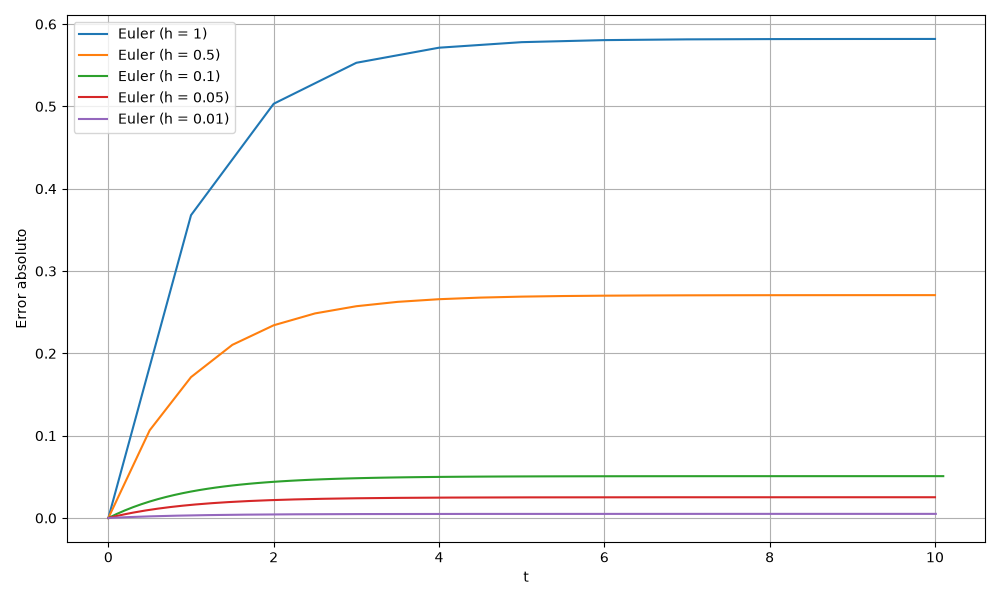
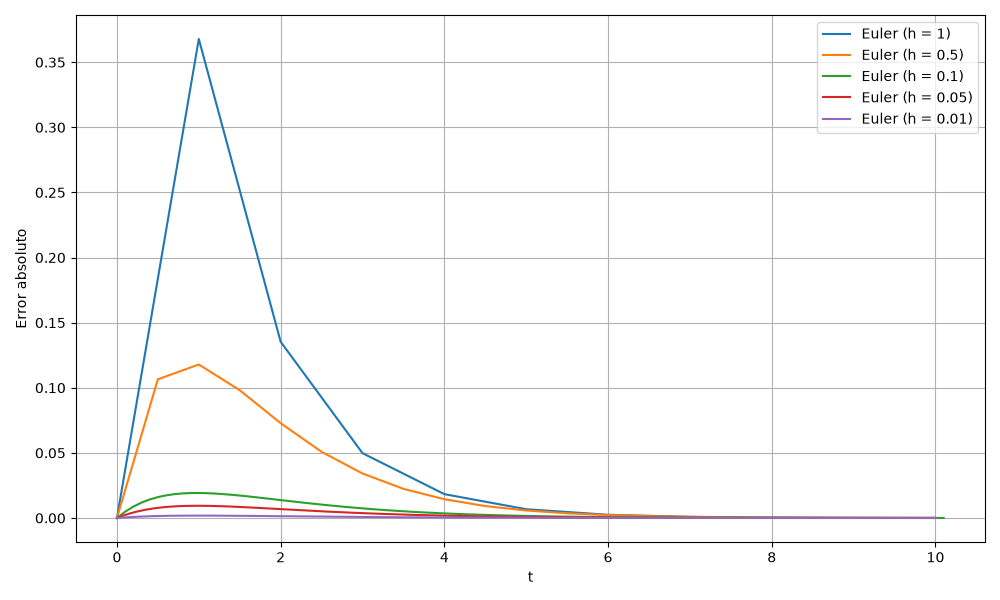
fix

diff --git a/verificacion_euler_mejorado/apli_euler_mejorado.py b/verificacion_euler_mejorado/apli_euler_mejorado.py
@@ -5,7 +5,7 @@ sys.path.append(str(Path(__file__).resolve().parent.parent))
 from metodos_euler import euler, euler_mejorado
 
 def f(t, x):
-    return -solucion(t)
+    return -x
 
 def solucion(t):
     return math.exp(-t)

diff --git a/analisis_error_numerico/error_absoluto.py b/analisis_error_numerico/error_absoluto.py
@@ -6,7 +6,7 @@ import matplotlib.pyplot as plt
 import math
 
 def f(t, x):
-    return -solucion(t)
+    return -x
 
 def solucion(t):
     return math.exp(-t)

diff --git a/verificacion_euler/decrecimiento_exponencial.py b/verificacion_euler/decrecimiento_exponencial.py
@@ -6,7 +6,7 @@ import matplotlib.pyplot as plt
 import math
 
 def f(t, x):
-    return -solucion(t)
+    return -x
 
 def solucion(t):
     return math.exp(-t)
